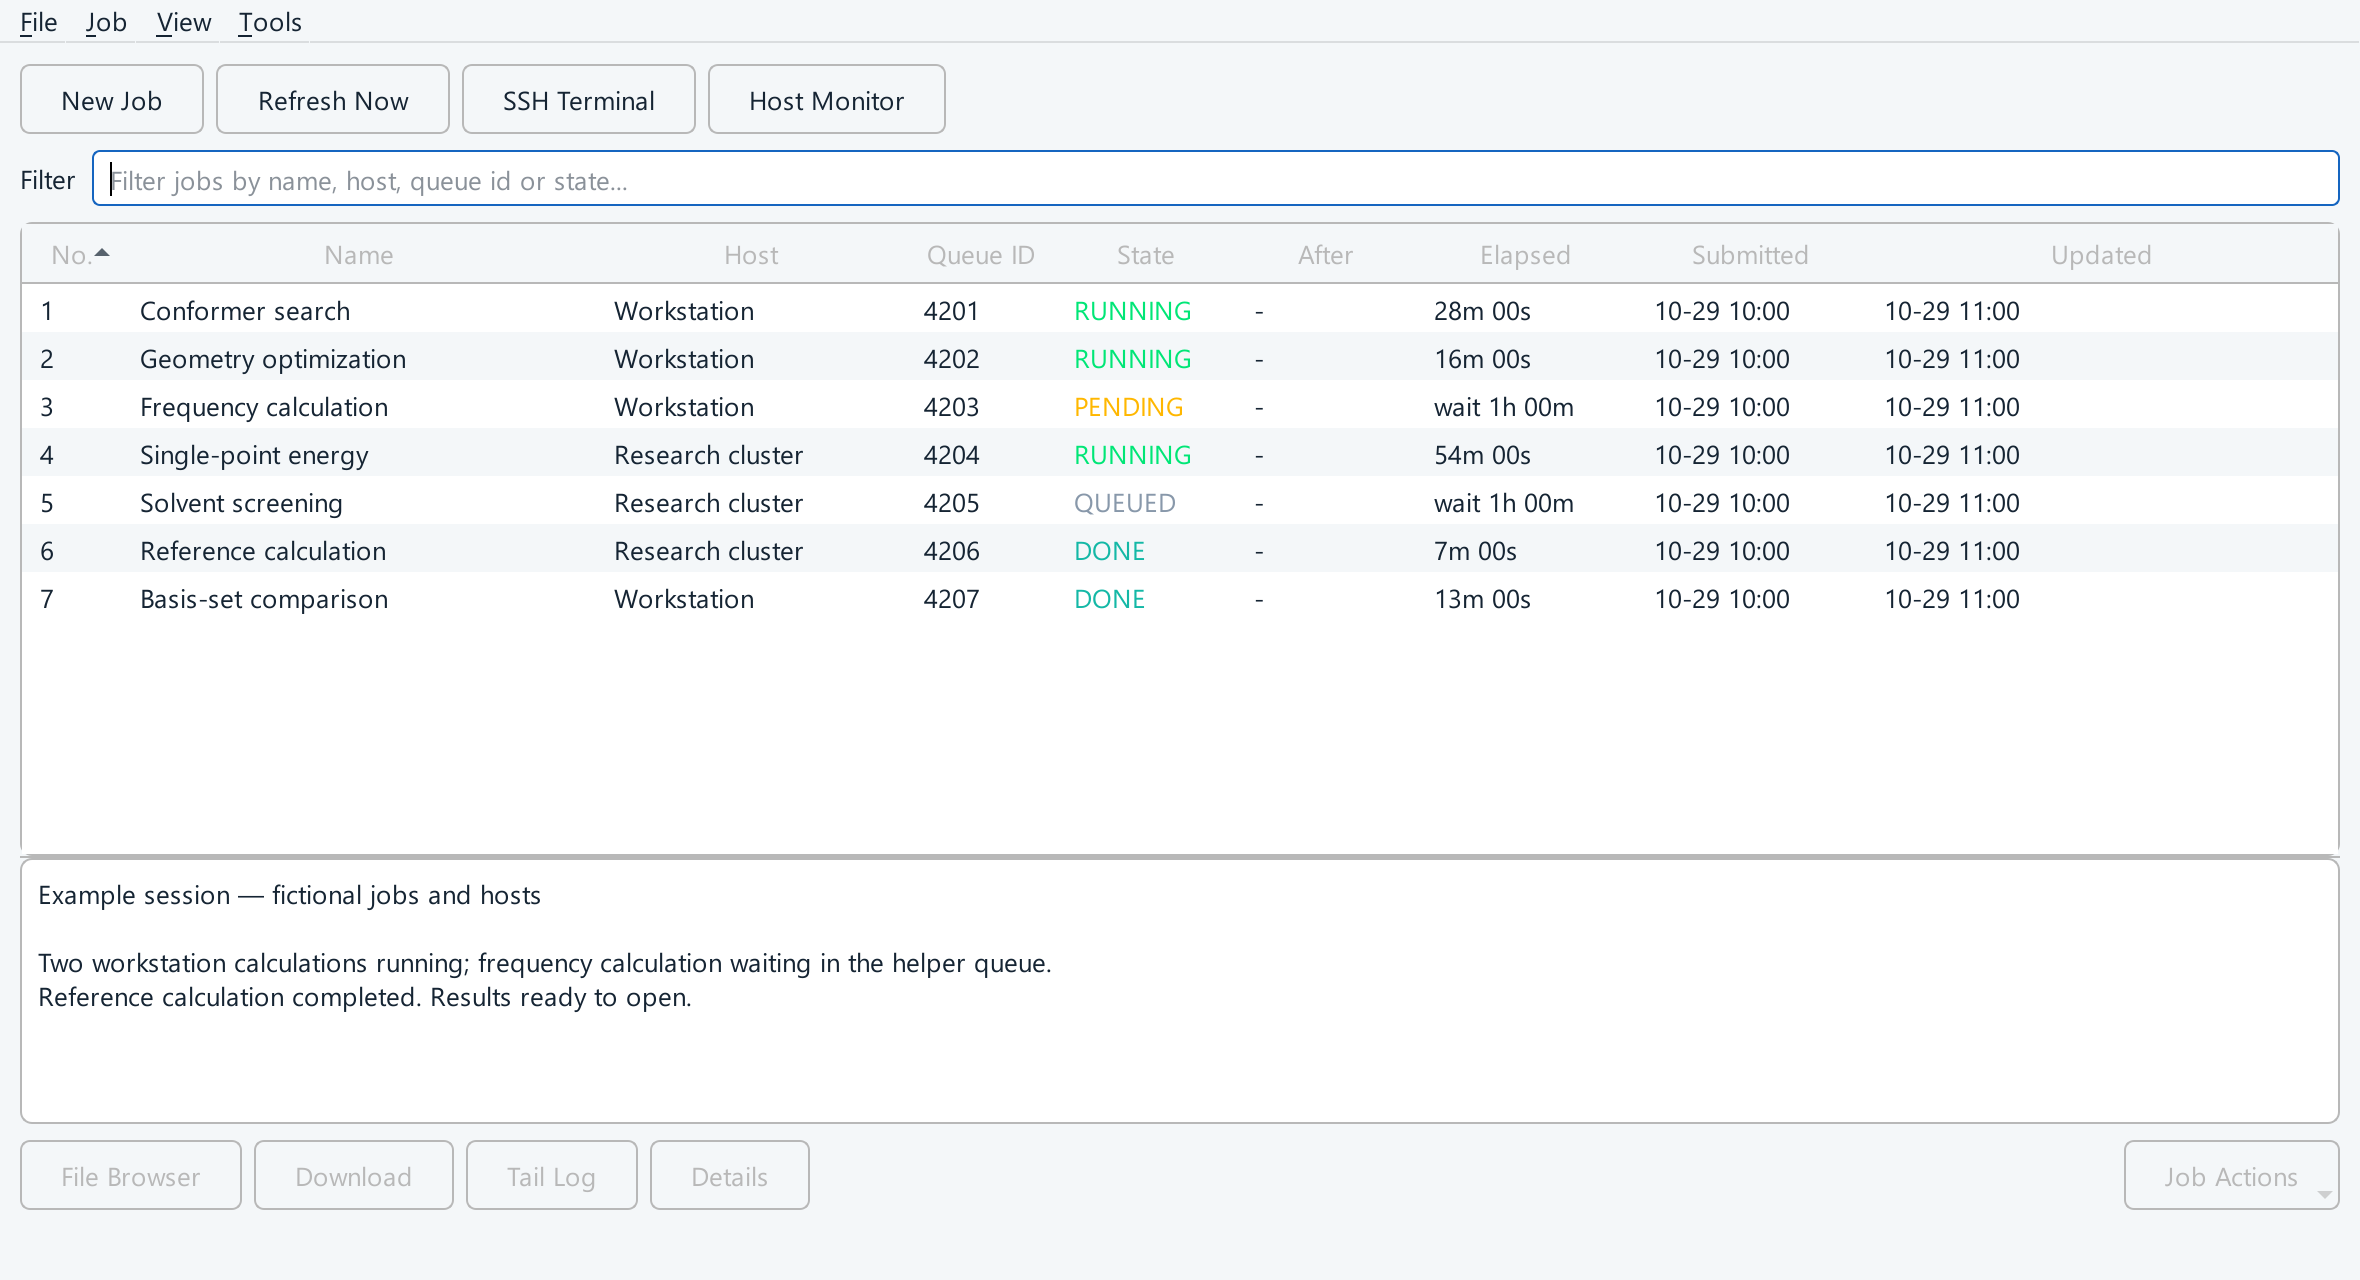
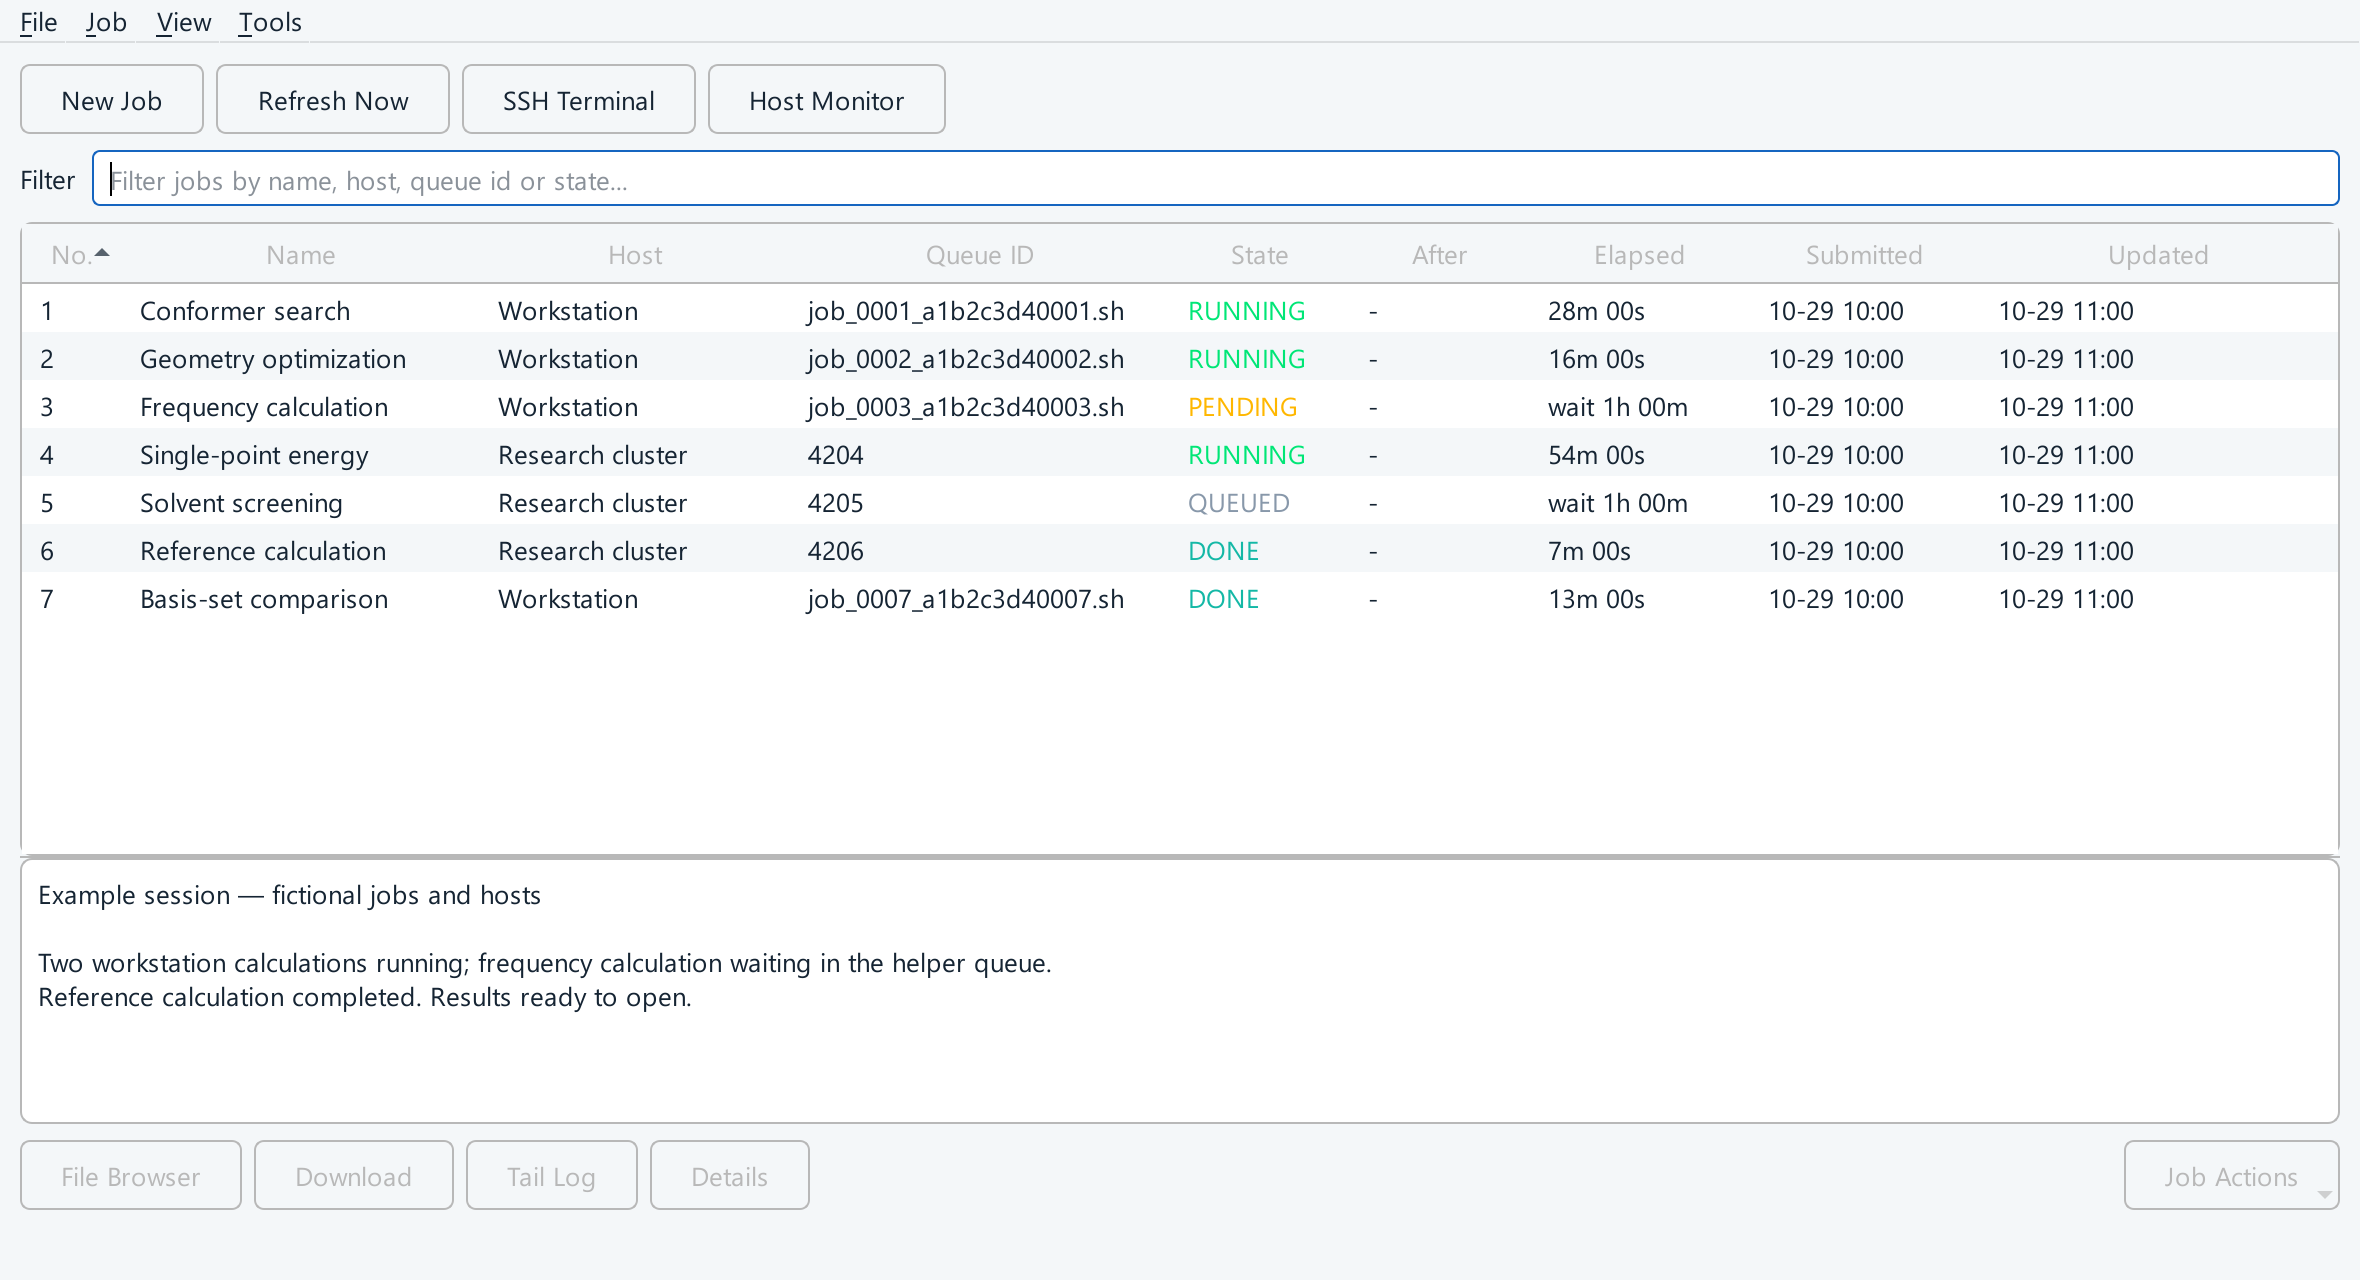
Correct helper queue IDs and display the complete application screenshot
assisted-by: GPT-6.1 Sol

diff --git a/index.html b/index.html
@@ -15,7 +15,6 @@
     section.content{padding:88px 0}.section-heading{display:flex;justify-content:space-between;align-items:end;gap:45px;margin-bottom:36px}.kicker{font:11px var(--mono);color:var(--teal);letter-spacing:1.6px;text-transform:uppercase;margin-bottom:18px}h2{font-size:clamp(29px,3.4vw,41px);line-height:1.22;letter-spacing:-1.3px;font-weight:720}.section-heading>p{max-width:340px;font-size:14px;color:var(--muted)}.workflow{display:grid;grid-template-columns:repeat(3,1fr);border-top:1px solid var(--line);border-bottom:1px solid var(--line)}.workflow article{padding:30px 32px 34px 0}.workflow article+article{border-left:1px solid var(--line);padding-left:32px}.step{font:12px var(--mono);color:var(--teal);margin-bottom:28px;display:block}h3{font-size:19px;font-weight:680;letter-spacing:-.4px;margin-bottom:10px}.workflow p,.feature p{font-size:14px;color:var(--muted)}.workflow .detail{font:10px var(--mono);color:#657b8e;margin-top:22px;display:block;letter-spacing:.5px}
     .agents{background:var(--ink);color:#f4f8fc;padding:78px 0}.agents-grid{display:grid;grid-template-columns:1fr 1.05fr;gap:80px;align-items:center}.agents .kicker{color:#72d6c7}.agents h2{font-size:clamp(29px,3.4vw,42px)}.agents-copy>p{color:#b6c5d2;font-size:14px;margin-top:23px}.agents-copy .text-link{color:#a8c9ff;margin-top:27px}.resource-note{border-left:2px solid #72d6c7;padding-left:17px;color:#d1dce5;font-size:13px;margin-top:25px}.resource-note strong{display:block;margin-bottom:4px;color:#f4f8fc}.code-window{min-width:0;background:#101d29;border:1px solid #3a4b5b;border-radius:9px;overflow:hidden}.code-header{display:flex;justify-content:space-between;align-items:center;padding:13px 19px;border-bottom:1px solid #334555;font:11px var(--mono);color:#b6c5d2}.copy{border:1px solid #485a6c;border-radius:4px;color:#d4dfea;background:none;padding:4px 9px;font:10px var(--mono)}.copy:hover{background:#26394b}pre{margin:0;padding:25px 22px;overflow:auto;font:12px/1.95 var(--mono);tab-size:4;color:#d2dfed}.code-comment{color:#8399ac}.code-key{color:#a6c6ff}.code-string{color:#8bd9ca}.code-footer{border-top:1px solid #334555;padding:12px 19px;font:10px/1.7 var(--mono);color:#9fb4c6}.agents-footnote{font-size:11px;color:#a8bac9;margin-top:20px;line-height:1.8}
     .monitor-layout{display:grid;grid-template-columns:1.2fr .8fr;gap:65px;align-items:center}.monitor-image{padding:14px;background:#e8eef3;border:1px solid #d2dce5;border-radius:10px}.monitor-image img{border:1px solid var(--line);border-radius:4px;width:100%}.monitor-image figcaption{font-size:10px;color:var(--muted);margin:10px 3px 0}.monitor-copy>p{font-size:14px;color:var(--muted);margin-top:20px}.feature-list{margin:22px 0 0;padding:0;list-style:none}.feature-list li{padding:11px 0;border-bottom:1px solid var(--line);font-size:13px;display:flex;gap:13px}.feature-list li:before{content:"↗";color:var(--teal)}.features-section{background:white;border-top:1px solid var(--line);border-bottom:1px solid var(--line)}.features-grid{display:grid;grid-template-columns:repeat(3,1fr);gap:38px}.feature{border-top:2px solid var(--line);padding-top:22px}.feature>span{font:10px var(--mono);color:var(--teal);display:block;margin-bottom:16px}.feature h3{font-size:18px}.feature a{font-size:12px;font-weight:650;display:inline-block;margin-top:18px;color:var(--blue)}.start-layout{display:grid;grid-template-columns:.85fr 1.15fr;gap:95px}.start-copy>p{color:var(--muted);font-size:14px;margin-top:20px}.install-steps{list-style:none;padding:0;margin:0;counter-reset:install}.install-steps li{counter-increment:install;border-top:1px solid var(--line);padding:21px 0 21px 43px;position:relative}.install-steps li:before{content:"0" counter(install);position:absolute;left:0;top:23px;font:11px var(--mono);color:var(--teal)}.install-steps h3{font-size:16px;margin-bottom:6px}.install-steps p{font-size:13px;color:var(--muted)}.install-steps a{color:#1e5fe3;text-decoration:underline;text-underline-offset:3px}.standalone{font-size:12px;color:var(--muted);margin-top:20px}.standalone code{color:var(--ink);font-family:var(--mono);display:block;padding:13px 16px;margin:11px 0;background:white;border:1px solid var(--line);border-radius:5px}.start-copy .actions{margin-top:28px}footer{background:var(--ink);color:#bcc9d5;padding:34px 0}.footer-top{display:flex;align-items:center;justify-content:space-between;gap:25px}.footer-brand{font-weight:700;font-size:15px;color:#f3f7fb}.footer-links{display:flex;gap:22px;font-size:11px}.footer-links a:hover{color:white}.footer-bottom{border-top:1px solid #344656;margin-top:24px;padding-top:18px;display:flex;justify-content:space-between;gap:16px;font-size:10px;color:#97abba}.status-message{min-height:18px;color:#a8c9ff;font-size:11px;margin-top:7px}
-    @media(min-width:1000px){.hero-figure{max-height:570px;overflow:hidden}.hero-figure .screen{padding-bottom:0}.figure-caption{position:absolute;bottom:0;left:0;right:0;background:#f8fafb;border-top:1px solid var(--line)}}
     @media(max-width:900px){nav{gap:16px}.brand small{display:none}.hero-top{gap:30px}.agents-grid{gap:35px}.monitor-layout{gap:30px}.start-layout{gap:40px}.destination-list{gap:15px}.hero{padding-top:50px}.hero-description{font-size:14px}h1{letter-spacing:-2px}.workflow article{padding-right:20px}.workflow article+article{padding-left:20px}}
     @media(max-width:680px){.wrap{width:calc(100% - 36px)}header{height:66px}.brand{font-size:15px;gap:8px}.brand img{width:25px;height:25px}nav{gap:10px}nav>a:not(.nav-github){display:none}.nav-github{padding:5px 9px;font-size:11px}.hero{padding-top:38px}.hero-top{grid-template-columns:1fr;gap:23px;margin-top:20px;margin-bottom:30px}h1{font-size:46px}.hero-description{max-width:none;font-size:15px}.hero-meta{font-size:9px;gap:12px;flex-wrap:wrap}.hero-meta span+span:before{margin-right:12px}.screen{padding:8px 8px 0;border-radius:8px 8px 0 0}.screen-top{font-size:8px;margin-bottom:8px}.screen-top b{max-width:70%;overflow:hidden;white-space:nowrap;text-overflow:ellipsis}.figure-caption{font-size:9px;gap:10px}.destinations .wrap{align-items:start;flex-direction:column;gap:10px}.destination-list{font-size:11px;gap:11px 20px}section.content{padding:55px 0}.section-heading{display:block;margin-bottom:26px}.section-heading>p{margin-top:18px}.workflow{grid-template-columns:1fr}.workflow article,.workflow article+article{padding:24px 0;border-left:0}.workflow article+article{border-top:1px solid var(--line)}.step{margin-bottom:14px}.workflow .detail{margin-top:14px}.agents{padding:52px 0}.agents-grid,.monitor-layout,.start-layout{grid-template-columns:1fr;gap:30px}.agents-grid{gap:30px}.code-window pre{font-size:11px;padding:20px 16px}.monitor-image{order:2}.monitor-copy{order:1}.features-grid{grid-template-columns:1fr;gap:27px}.feature{padding-top:18px}.feature>span{margin-bottom:10px}.footer-top,.footer-bottom{align-items:start;flex-direction:column;gap:15px}.footer-links{flex-wrap:wrap;gap:13px 20px}.kicker{font-size:10px;margin-bottom:14px}}
     body[data-lang=ja] h1{font-size:clamp(36px,4.8vw,60px);letter-spacing:-1.8px}

diff --git a/scripts/capture_website_screenshots.py b/scripts/capture_website_screenshots.py
@@ -29,6 +29,7 @@ def main():
         from job_manager.jobs_dialog import JobsDialog
         from job_manager.models import HostProfile, Job
         from job_manager.poller import JobPoller
+        from job_manager.remote_runner import entry_name
         from job_manager.service import JobService
         from job_manager.store import JobStore
 
@@ -78,14 +79,17 @@ def main():
         ]
         for index, (name, host_index, state, elapsed) in enumerate(examples):
             host = hosts[host_index]
+            job_id = f"a1b2c3d4{index + 1:04x}"
             job = Job(
-                id=f"demo-job-{index + 1}",
+                id=job_id,
                 name=name,
                 host_id=host.id,
                 host_name=host.name,
                 scheduler=host.scheduler,
                 state=state,
-                remote_job_id=str(4201 + index),
+                remote_job_id=(
+                    entry_name(index + 1, job_id) if host_index == 0 else str(4201 + index)
+                ),
                 submitted_at=now - 3600,
                 started_at=now - elapsed if elapsed else 0,
                 updated_at=now,
@@ -119,6 +123,7 @@ def main():
                 1, monitor.table.horizontalHeader().ResizeMode.Stretch
             )
             monitor.table.setColumnWidth(2, 155)
+            monitor.table.setColumnWidth(3, 190)
             monitor.table.setColumnWidth(6, 110)
             monitor.table.sortByColumn(0, Qt.SortOrder.AscendingOrder)
             app.processEvents()
